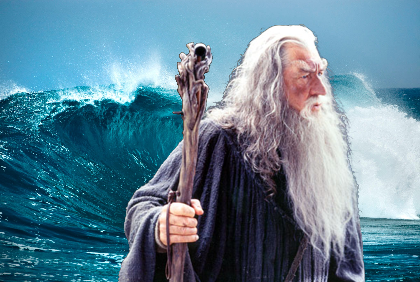
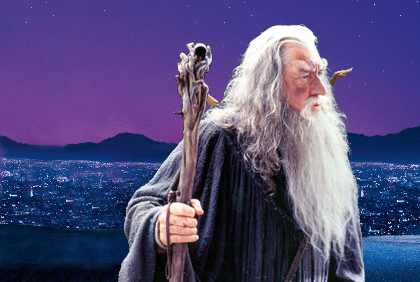
try other pics

diff --git a/KNN_Matting/release.py b/KNN_Matting/release.py
@@ -14,6 +14,7 @@ def knn_matting(image, trimap, my_lambda=100):
 
     all_constraints = foreground + background
 
+    n_neighbors = 10
     print('Finding nearest neighbors')
     a, b = np.unravel_index(np.arange(h*w), (h, w))
     feature_vec = np.append(np.transpose(image.reshape(h*w,c)), [ a, b]/np.sqrt(h*h + w*w), axis=0).T
@@ -22,8 +23,8 @@ def knn_matting(image, trimap, my_lambda=100):
 
     # Compute Sparse A
     print('Computing sparse A')
-    row_inds = np.repeat(np.arange(h*w), 10)
-    col_inds = knns.reshape(h*w*10)
+    row_inds = np.repeat(np.arange(h*w), n_neighbors)
+    col_inds = knns.reshape(h*w*n_neighbors)
     vals = 1 - np.linalg.norm(feature_vec[row_inds] - feature_vec[col_inds], axis=1)/(c+2)
     A = scipy.sparse.coo_matrix((vals, (row_inds, col_inds)),shape=(h*w, h*w))
 
@@ -47,9 +48,10 @@ def knn_matting(image, trimap, my_lambda=100):
 
 if __name__ == '__main__':
 
-    image = cv2.imread('./image/gandalf.png')
-    trimap = cv2.imread('./trimap/gandalf.png', cv2.IMREAD_GRAYSCALE)
-    back = cv2.imread('./image/ocean.png')
+    imagefile = 'gandalf.png'
+    image = cv2.imread('./image/' + imagefile)
+    trimap = cv2.imread('./trimap/' + imagefile, cv2.IMREAD_GRAYSCALE)
+    back = cv2.imread('./image/lalaland.png')
     back = cv2.resize(back, (image.shape[1], image.shape[0]))
 
     alpha = knn_matting(image, trimap)
@@ -65,8 +67,9 @@ if __name__ == '__main__':
             result[i, j] = foreground[i,j] + background[i,j]
 
     cv2.imshow('Result', result)
-    cv2.imwrite('./alpha/gandalf_10.png', alpha*255)
-    cv2.imwrite('./result/gandalf_10.png', result*255)
+    resultfile = 'gandalf_10.png'
+    cv2.imwrite('./alpha/' + resultfile, alpha*255)
+    cv2.imwrite('./result/' + resultfile, result*255)
     cv2.waitKey(0)
 
     """plt.title('Alpha Matte')
